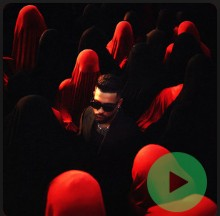
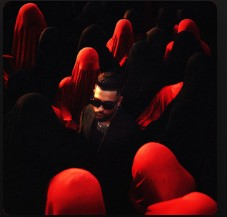
trending songs update

diff --git a/starsmoon/index.html b/starsmoon/index.html
@@ -64,39 +64,75 @@
         <p id="show"><a>Show All</a></p>
       </div>
       <div class="trending-section">
-  <div class="song-card"><a>
+ <div class="song-card">
+  <div class="image-wrapper">
     <img src="sahiba.jpg" alt="Sahiba">
-    <h3>Sahiba</h3>
-    <p>Aditya Rikhari</p></a>
+    <div class="play">
+      <i class="fa-solid fa-play" style="color: black; font-size: 16px;"></i>
+    </div>
   </div>
+  <h3>Sahiba</h3>
+  <p>Aditya Rikhari</p>
+</div>
 
-  <div class="song-card"><a>
-    <img src="atpeace.jpg" alt="At Peace">
-    <h3>At Peace</h3>
-    <p>Karan Aujla, Ikky</p></a>
-  </div>
 
-  <div class="song-card"><a>
-    <img src="dhun.jpg" alt="Dhun">
-    <h3>Dhun (From "Saiyaara")</h3>
-    <p>Mithoon, Arijit Singh</p></a>
+  <div class="song-card">
+  <div class="image-wrapper">
+    <img src="shoesoff.jpg" alt="Sahiba">
+    <div class="play">
+      <i class="fa-solid fa-play" style="color: black; font-size: 16px;"></i>
+    </div>
   </div>
+  <h3>Shoes Off</h3>
+  <p>Prem Dhillon, Iqbal, The Kidd</p>
+</div>
 
-  <div class="song-card"><a>
-    <img src="shoesoff.jpg" alt="Shoes Off">
-    <h3>Shoes Off</h3>
-    <p>Prem Dhillon, Iqbal, The Kidd</p></a>
+
+  <div class="song-card">
+  <div class="image-wrapper">
+    <img src="atpeace.jpg" alt="Sahiba">
+    <div class="play">
+      <i class="fa-solid fa-play" style="color: black; font-size: 16px;"></i>
+    </div>
   </div>
-  <div class="song-card"><a>
-    <img src="highonyou.jpg" alt="Shoes Off">
-    <h3>High On You</h3>
-    <p>Jind Universe</p></a>
+  <h3>At Peace</h3>
+  <p>Karun Aujla</p>
+</div>
+
+
+  <div class="song-card">
+  <div class="image-wrapper">
+    <img src="highonyou.jpg" alt="Sahiba">
+    <div class="play">
+      <i class="fa-solid fa-play" style="color: black; font-size: 16px;"></i>
+    </div>
   </div>
-  <div class="song-card"><a>
-    <img src="redflag.jpg" alt="Shoes Off">
-    <h3>Red Flag</h3>
-    <p>Kesha</p></a>
+  <h3>High On You</h3>
+  <p>Jind Universe</p>
+</div>
+
+  <div class="song-card">
+  <div class="image-wrapper">
+    <img src="dhun.jpg" alt="Sahiba">
+    <div class="play">
+      <i class="fa-solid fa-play" style="color: black; font-size: 16px;"></i>
+    </div>
   </div>
+  <h3>Dhun</h3>
+  <p>Mithoon, Arjit Singh</p>
+</div>
+
+  <div class="song-card">
+  <div class="image-wrapper">
+    <img src="redflag.jpg" alt="Sahiba">
+    <div class="play">
+      <i class="fa-solid fa-play" style="color: black; font-size: 16px;"></i>
+    </div>
+  </div>
+  <h3>Red Flag</h3>
+  <p>Kesha</p>
+</div>
+
 </div>
 <div class="right-foot">
         <p id="trending">Popular Artists</p>
@@ -140,5 +176,6 @@
     </div>
     
   </div>
+  <script src="script.js"></script>
 </body>
 </html>

diff --git a/starsmoon/style.css b/starsmoon/style.css
@@ -103,7 +103,7 @@ i {
 
 /* Sidebar */
 .left {
-  width: 350px;
+  width: 300px;
   height: calc(100vh - 80px); /* Full height minus navbar */
   background-color: #121212;
   padding: 20px;
@@ -184,7 +184,7 @@ i {
   justify-content: space-between;
   align-items: center; /* Align text vertically */
   padding: 10px 40px;
-  margin-top: 45px;
+  margin-top: 30px;
   margin-bottom: 0px;  /* Add spacing below heading */
 }
 
@@ -299,4 +299,35 @@ i {
   white-space: nowrap;
   overflow: hidden;
   text-overflow: ellipsis;
+}
+.play{
+  width: 40px; 
+  height: 40px; 
+  background-color: green; 
+  border-radius: 50%; 
+  display: flex; 
+  align-items: center; 
+  justify-content: center;
+  position: absolute;
+  bottom: 10px;
+  right: 10px;
+  opacity: 0;
+  transition: opacity 0.3s ease;
+}
+
+.song-card:hover .play {
+  opacity: 1;
+}
+
+.image-wrapper {
+  position: relative;
+  width: 100%;
+  height: 200px;
+}
+
+.image-wrapper img {
+  width: 100%;
+  height: 100%;
+  object-fit: cover;
+  border-radius: 8px;
 }
